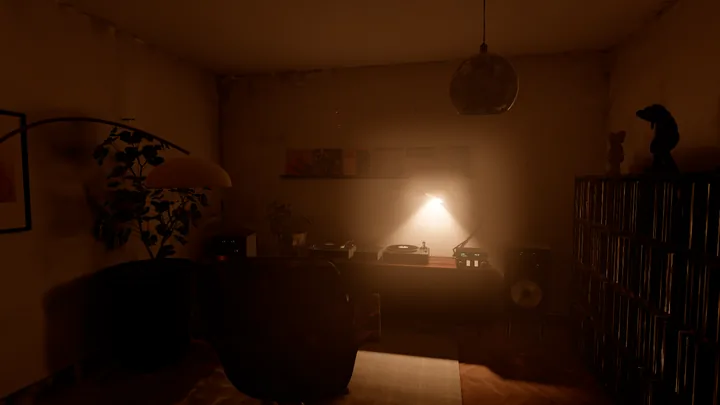
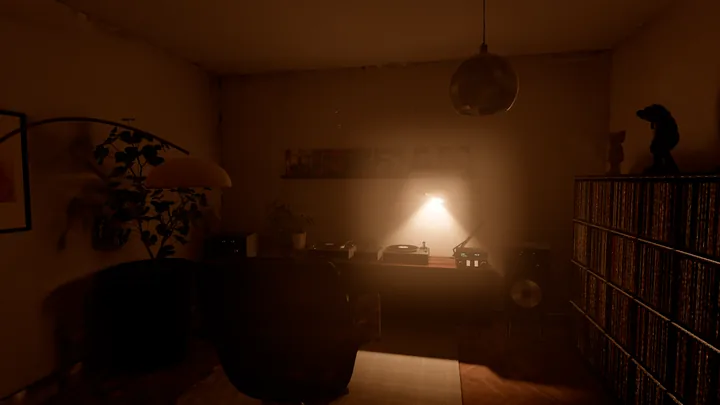
Writing: update the Listening Room post for the sixth light, new sizes and bios
- Six lights (shelf LEDs added): copy, stat table, layer figure (new Shelf LEDs tile, fresh renders), shader
- Sizes: 39 → 12.2 MB desktop, 5.6 MB phones; phone first load ~12 MB vs ~24
- Bios: checked against the real Discogs artist and the record's genre, Discogs fallback
- What broke: the Genius/GZA mix-up, and the dark record shelf

Claude-Session: https://claude.ai/code/session_01LommHjWzrAy5NjnEbuJJz3

Changed region(s): [[0.7944, 0.4444, 1.0, 1.0], [0.0611, 0.5926, 0.0917, 0.6222], [0.0, 0.9778, 0.0306, 1.0]]

diff --git a/writing/listening-room.html b/writing/listening-room.html
@@ -121,7 +121,7 @@
             <blockquote class="prompt"><p>Obtain models from online, I won't model anything, you need to do that and drive that, along with textures and any animations. I'm looking for a highly refined and design-polished aesthetic. Realism is key.</p></blockquote>
             <p>That was the deal. I'd be the art director. Claude, working in Claude Code, would be the whole studio: 3D modeller, lighting artist, front-end developer, audio engineer and the person who deploys it at 4am.</p>
             <p>I'll be honest, I didn't think it would hold. I expected to hit a wall somewhere around the 3D and end up in Blender myself, watching tutorials. I never opened it. Not once.</p>
-            <p>That's the bit I find genuinely interesting. Not that AI can write code (we all know that by now), but that the whole chain from "find me a chair" to "bake the light from five lamps" can be driven by someone describing what they want and reacting to what they see.</p>
+            <p>That's the bit I find genuinely interesting. Not that AI can write code (we all know that by now), but that the whole chain from "find me a chair" to "bake the light from six lamps" can be driven by someone describing what they want and reacting to what they see.</p>
 
             <h2 id="built"><span class="num">03</span>What got built</h2>
             <p>One evening, one night's sleep, one long day of feedback. Here's the tally.</p>
@@ -139,7 +139,7 @@
                     <tr><td>Code written</td><td>About 4,000 lines</td></tr>
                     <tr><td>3D models sourced, placed and lit</td><td>15, all credited</td></tr>
                     <tr><td>Records pulled from my Discogs</td><td>2,624 (2,358 of them vinyl)</td></tr>
-                    <tr><td>Lamps, each with its own baked light</td><td>5</td></tr>
+                    <tr><td>Lights, each with its own baked layer</td><td>6</td></tr>
                 </tbody>
             </table>
             </div>
@@ -149,7 +149,7 @@
                 <li><strong>Dig the crate.</strong> Pull records from my collection or my recently played, load them onto deck A or B and press Start.</li>
                 <li><strong>Mix.</strong> Mix mode locks the camera over the decks. Grab the record to scratch, drag the tonearm to drop the needle, ride the faders and the crossfader.</li>
                 <li><strong>Click any sleeve</strong> on the shelf for the tracklist and a short artist bio.</li>
-                <li><strong>Switch the lights.</strong> Five lamps, four scenes (Sunday morning, Golden hour, Late night, All on), dimmers that warm up as they dim like real bulbs.</li>
+                <li><strong>Switch the lights.</strong> Six lights (five lamps and LED strips under the shelves), four scenes (Sunday morning, Golden hour, Late night, All on), dimmers that warm up as they dim like real bulbs.</li>
                 <li><strong>Stream</strong> a classic mix through SoundCloud: Coldcut's <em>70 Minutes of Madness</em>, Larry Levan at the Paradise Garage, the Dirtchamber Sessions.</li>
                 <li><strong>Type DOOM or DILLA.</strong> Actually, I'll let you find that one.</li>
             </ul>
@@ -177,7 +177,7 @@
                         <rect class="box" x="372" y="60" width="150" height="92" rx="2"/>
                         <text class="n" x="386" y="84">03 · CYCLES</text><text class="t" x="386" y="110">Light bake</text><text class="s" x="386" y="132">one lightmap per</text><text class="s" x="386" y="146">lamp, ~20 min</text>
                         <rect class="box" x="558" y="60" width="150" height="92" rx="2"/>
-                        <text class="n" x="572" y="84">04 · COMPRESS</text><text class="t" x="572" y="110">Web assets</text><text class="s" x="572" y="132">41 MB → 12.6 MB,</text><text class="s" x="572" y="146">6 MB for phones</text>
+                        <text class="n" x="572" y="84">04 · COMPRESS</text><text class="t" x="572" y="110">Web assets</text><text class="s" x="572" y="132">39 MB → 12.2 MB,</text><text class="s" x="572" y="146">5.6 MB for phones</text>
                         <rect class="box" x="744" y="60" width="140" height="92" rx="2"/>
                         <text class="n" x="758" y="84">05 · THREE.JS</text><text class="t" x="758" y="110">The browser</text><text class="s" x="758" y="132">mixes the lamps</text><text class="s" x="758" y="146">live, plays audio</text>
                         <rect class="box acid" x="920" y="60" width="110" height="92" rx="2"/>
@@ -207,7 +207,7 @@ cell, th, dep, ncol, nrow = 0.345, 0.02, 0.4, 5, 4
             <h3>2. Light that's real, but cheap</h3>
             <p>Realistic light is the expensive part of 3D. Light bounces: off the walls, the floor, the ceiling, the chair. Calculating that live in a browser would melt your laptop.</p>
             <p>The trick is to work it out once, in advance. Blender fires millions of light rays around the room and saves the result as an image, a <strong>lightmap</strong>, painted onto every surface. It's how games have looked good for twenty years.</p>
-            <p>The twist here: the lamps have to switch on and off. So the room is baked five times, once per lamp, each in plain white light. The browser then blends the five together live, tinting each one with its own colour and brightness.</p>
+            <p>The twist here: the lamps have to switch on and off. So the room is baked six times, once per light, each in plain white light. The browser then blends the six together live, tinting each one with its own colour and brightness.</p>
 
             <figure class="post-figure">
                 <div class="lightsum">
@@ -216,17 +216,18 @@ cell, th, dep, ncol, nrow = 0.345, 0.02, 0.4, 5, 4
                     <div class="tile"><img src="/images/writing/listening-room/lamp-floor.webp" width="720" height="405" alt="The room lit only by the arc floor lamp." loading="lazy"><span class="tag">Arc lamp</span></div>
                     <div class="tile"><img src="/images/writing/listening-room/lamp-desk.webp" width="720" height="405" alt="The room lit only by the anglepoise over the decks." loading="lazy"><span class="tag">Anglepoise</span></div>
                     <div class="tile"><img src="/images/writing/listening-room/lamp-neon.webp" width="720" height="405" alt="The room lit only by the neon sign." loading="lazy"><span class="tag">Neon</span></div>
+                    <div class="tile"><img src="/images/writing/listening-room/lamp-shelf.webp" width="720" height="405" alt="The room lit only by the LED strips under the record shelf." loading="lazy"><span class="tag">Shelf LEDs</span></div>
                     <span class="op" aria-hidden="true">=</span>
-                    <div class="tile all"><img src="/images/writing/listening-room/lamp-all.webp" width="720" height="405" alt="The room with all five lamps on together." loading="lazy"><span class="tag acid">All five</span></div>
+                    <div class="tile all"><img src="/images/writing/listening-room/lamp-all.webp" width="720" height="405" alt="The room with all six lights on together." loading="lazy"><span class="tag acid">All six</span></div>
                 </div>
-                <figcaption>Five baked layers, one per lamp, added together live. Turn a dimmer down and that layer, bounces and all, fades out.</figcaption>
+                <figcaption>Six baked layers, one per light, added together live. Turn a dimmer down and that layer, bounces and all, fades out.</figcaption>
             </figure>
 
             <span class="code-label">GLSL · mixing the lamps</span>
 <pre><code><span class="c">// one lightmap per lamp, mixed live: colour × dimmer for each, added together</span>
 vec3 mixLightmaps(vec2 uv) {
   vec3 sum = vec3(0.0);
-  <span class="k">for</span> (int i = 0; i &lt; 5; i++)
+  <span class="k">for</span> (int i = 0; i &lt; 6; i++)
     sum += decodeRGBM(texture2D(lmMaps[i], uv)) * lmColors[i];
   <span class="k">return</span> sum;
 }</code></pre>
@@ -240,7 +241,7 @@ vec3 mixLightmaps(vec2 uv) {
                     <img src="/images/writing/listening-room/scene-latenight.webp" width="1440" height="810" alt="Late night scene: dark outside, the anglepoise over the decks and the neon on." loading="lazy">
                     <img src="/images/writing/listening-room/scene-allon.webp" width="1440" height="810" alt="All on: every lamp lit." loading="lazy">
                 </div>
-                <figcaption>The four lighting scenes. Same room, same geometry: only the five layers' brightness and colour change.</figcaption>
+                <figcaption>The four lighting scenes. Same room, same geometry: only the six layers' brightness and colour change.</figcaption>
             </figure>
 
             <h3>3. The decks actually play</h3>
@@ -249,10 +250,10 @@ vec3 mixLightmaps(vec2 uv) {
 
             <h3>4. Everything else</h3>
             <ul>
-                <li><strong>The data:</strong> my Discogs collection (2,624 releases) with cover art, and a Wikipedia bio for each artist, only accepted when the page is clearly about a musician. Without that check, "Busy Bee" comes back as an insect.</li>
+                <li><strong>The data:</strong> my Discogs collection (2,624 releases) with cover art, and a bio for each artist. It's checked against the actual Discogs artist and the record's genre before it's shown, from Wikipedia where the page fits, or Discogs's own profile where it doesn't. Without those checks, "Busy Bee" comes back as an insect.</li>
                 <li><strong>The streamer:</strong> SoundCloud's official player, kept visible as their terms ask.</li>
                 <li><strong>The site:</strong> plain HTML and three.js, no framework. Hosted on Vercel in London, served at theluckystrike.co.uk/listening-room.</li>
-                <li><strong>Weight:</strong> the room is compressed from 41 MB to 12.6 MB for desktop, and 6 MB for phones.</li>
+                <li><strong>Weight:</strong> the room is compressed from 39 MB to 12.2 MB for desktop, and 5.6 MB for phones.</li>
             </ul>
 
             <h2 id="prompting"><span class="num">05</span>How I prompted</h2>
@@ -315,6 +316,8 @@ vec3 mixLightmaps(vec2 uv) {
                     <tr><td>The window frame had a dotted line</td><td>No anti-aliasing on the final render</td><td>Turned on multisampling: every edge in the room got smoother</td></tr>
                     <tr><td>The anglepoise looked like a chunk was missing</td><td>My black repaint also painted the white inside of the shade</td><td>Repaint only the coloured parts of the texture</td></tr>
                     <tr><td>The wooden KAWS figure glowed pale grey</td><td>Sketchfab scans ship as "unlit", ignoring the room's lights</td><td>Rebuilt the materials so the lamps reach them</td></tr>
+                    <tr><td>A UK garage record showed GZA's bio</td><td>Discogs credits Genius Cru as "Genius", and Wikipedia's Genius is the Wu-Tang rapper</td><td>Bios now check the real Discogs artist and the record's genre, with Discogs's own profile as a fallback</td></tr>
+                    <tr><td>The record shelf read as one dark mass</td><td>Each 1 cm spine was smaller than one pixel of baked light, so the colours blurred together</td><td>LED strips under every shelf, and the hidden sleeve faces dropped so the spines bake six times sharper</td></tr>
                     <tr><td>Typing DOOM or DILLA fought the D key, which walked me sideways</td><td>Hotkeys and typed words fought over the same letters</td><td>Moved walking to the arrows (and later, back to WASD)</td></tr>
                 </tbody>
             </table>
@@ -333,7 +336,7 @@ vec3 mixLightmaps(vec2 uv) {
             <p>The honest answer was yes and no. Yes, because most people will meet this link on their phone: from LinkedIn, from a message, on the train. That first impression is the whole point. No, because nobody is going to beat-match on an iPhone on the Northern line.</p>
             <p>So phones get a <strong>showroom</strong>, not a cut-down DJ booth:</p>
             <ul>
-                <li><strong>A lighter room.</strong> Plants and figures are simplified, textures shrink, and the baked light comes at half size. About 10 MB instead of 16, and the glow effect is switched off.</li>
+                <li><strong>A lighter room.</strong> Plants and figures are simplified, textures shrink, and the baked light comes at half size. About 12 MB instead of 24, and the glow effect is switched off.</li>
                 <li><strong>No walking.</strong> On a small screen, walking around is how you get lost. Instead you glide between five framed views (the chair, the decks, the records, the window, the art), and you can still drag to look around.</li>
                 <li><strong>Landscape only.</strong> Portrait gets a polite "turn your phone sideways".</li>
                 <li><strong>The good stuff stays.</strong> Lamps, record sheets and the streamer all work, and so do the decks and scratching. Mix mode just tells you it's best on a big screen, "but go on, have a go".</li>

diff --git a/post.css b/post.css
@@ -105,7 +105,7 @@
 }
 
 /* the lightmap sum: five layers + equals */
-.lightsum { display: grid; grid-template-columns: repeat(5, 1fr) auto 1.6fr; gap: 8px; align-items: center; }
+.lightsum { display: grid; grid-template-columns: repeat(6, 1fr) auto 1.6fr; gap: 8px; align-items: center; }
 .lightsum .op { font-family: var(--font-serif); font-size: 2rem; color: var(--color-accent); padding: 0 4px; }
 .lightsum .tile .tag { font-size: 0.6rem; left: 6px; top: 6px; }
 
